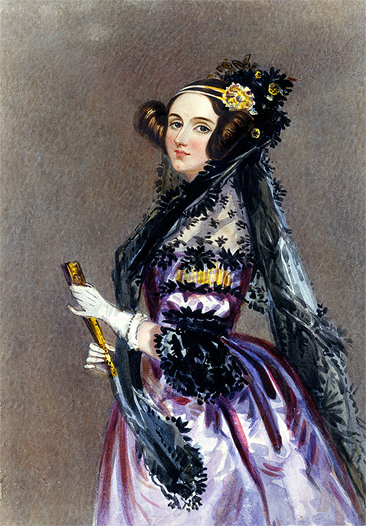
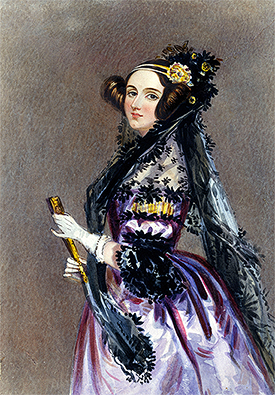
Updated book images. Small updates and tweaks.

diff --git a/splash.html b/splash.html
@@ -3,8 +3,8 @@
   <small>Learn C and build your own programming language in under 1000 lines of code!</small>
 </h2>
 
-<div class='pull-left alert alert-warning' style="margin: 15px; margin-top:30px; text-align: center;">
-  <img src="/static/img/lovelace.png" alt="lovelace" class="img-responsive" width='366px' height='526px'/>
+<div class='pull-left alert alert-warning' style="margin: 15px; text-align: center;">
+  <img src="/static/img/lovelace.png" alt="lovelace" class="img-responsive" width='275px' height='395px'/>
 </div>
 
 <hr/>
@@ -17,14 +17,11 @@
 
 <p>This books is free to read online, so you can get started right away! But for those who want to show their support, or who want the best reading experience, this book is also available for purchase in print format, or for cheap in all major e-book formats.</p>
 
-<hr/>
-
-<div class="btn-group" style='width:275px; text-align:center;'>
+<div style='text-align:center; margin-top:50px; margin-left:auto; margin-right:auto;'>
   <a href="/purchase"><button style='margin-right:10px;' class="btn btn-large btn-primary" type="button">Buy Now!</button></a>
-  <a href="/contents"><button style='margin-left:10px;' class="btn btn-large btn-primary" type="button">Read Online!</button></a>
+  <a href="/contents"><button style='margin-left:10px; margin-right:30px;' class="btn btn-large btn-primary" type="button">Read Online!</button></a>
 </div>
 
-<hr/>
 
 <p style='margin-bottom:25px;'></p>
 

diff --git a/faq.html b/faq.html
@@ -1,5 +1,5 @@
 
-<h1>Frequently Asked Questions <small>&bull; Build Your Own Lisp</small></h1>
+<h1>Frequently Asked Questions</h1>
 
 <div class='pull-right alert alert-warning' style="margin: 15px; text-align: center;">
   <img src="/static/img/me.png" alt="me" class="img-responsive" width="224px" height="264px"/>
@@ -11,7 +11,7 @@
 
 <p>Hello, my name is Daniel Holden. I'm from the UK, and currently studying for a PhD at Edinburgh University. My research is in data driven tools for character animation.</p>
 
-<p>You may know me from one of my other projects such as <a href="http://libcello.org">Cello</a> or <a href="https://github.com/orangeduck/Corange">Corange</a>. As well as hacking on C, I enjoy graphics, game development, and theory of computation.</p>
+<p>You may know me from one of my other projects such as <a href="http://libcello.org">Cello</a> or <a href="https://github.com/orangeduck/Corange">Corange</a>. As well as hacking on C, I enjoy writing short stories, digital art, and game development.</p>
 
 <p>You can take a look at my <a href="http://theorangeduck.com/">personal website</a>. Or you can <a href="https://twitter.com/anorangeduck">follow me on twitter</a>.</p>
 

diff --git a/chapter5_languages.html b/chapter5_languages.html
@@ -153,7 +153,7 @@ mpc_cleanup(4, Adjective, Noun, Phrase, Doge);
 <div class="alert alert-warning">
   <p><strong>Sounds familiar...</strong></p>
 
-  <p>Did you notice that the description of what the input string to <code>mpca_lang</code> should look like sounded like I was specifying a grammar? That's because it was. <code>mpc</code> uses itself internally to parse the input you give it to <code>mpca_lang</code>. It does it by specifying a <em>grammar</em> in code using the previous method. How neat is that..</p>
+  <p>Did you notice that the description of what the input string to <code>mpca_lang</code> should look like sounded like I was specifying a grammar? That's because it was. <code>mpc</code> uses itself internally to parse the input you give it to <code>mpca_lang</code>. It does it by specifying a <em>grammar</em> in code using the previous method. How neat is that.</p>
 </div>
 
 <p>Using the table described above verify that what I've written above is equal to what we specified in code.</p>

diff --git a/purchase.html b/purchase.html
@@ -2,7 +2,7 @@
 
 <hr/>
 
-<p>For the best reading experience you can purchase your very own copy of <strong>Build Your Own Lisp</strong> - painstakingly copy-edited, and printed in beautiful colour. Benefits include (but are not limited to) new book smell, bookshelf bragging, supporting impoverished students, and a <a href='http://en.wikipedia.org/wiki/Langton%27s_ant'>Langton's ant</a> flick book.</p>
+<p><strong>Build Your Own Lisp</strong> is available in print for the best reading experience. Painstakingly copy-edited, and printed in beautiful colour. Benefits include (but are not limited to) new book smell, bookshelf bragging rights, supporting impoverished students, and a <a href='http://en.wikipedia.org/wiki/Langton%27s_ant'>Langton's ant</a> flick book.</p>
 
 <div style='text-align:center; margin:20px;'>
   <a href='https://www.createspace.com/4975832'><button class="btn btn-large btn-primary" type="button">Purchase!</button></a>

diff --git a/lispy.py b/lispy.py
@@ -78,9 +78,9 @@ header = """
   </style>
   </head>
   <body style="background: url(static/img/halftone.png); margin:0px; padding:0px;">
-  <div style="background: url(static/img/tiletop.png) repeat-x; height:100px;">
+  <div style="background: url(static/img/tiletop.png) repeat-x; height:25px;">
   
-    <div class='container' style='max-width:750px; padding-top:50px;'>
+    <div class='container' style='max-width:750px; padding-top:10px;'>
         <div class='row'>
          <div class='col-xs-12'>
     
